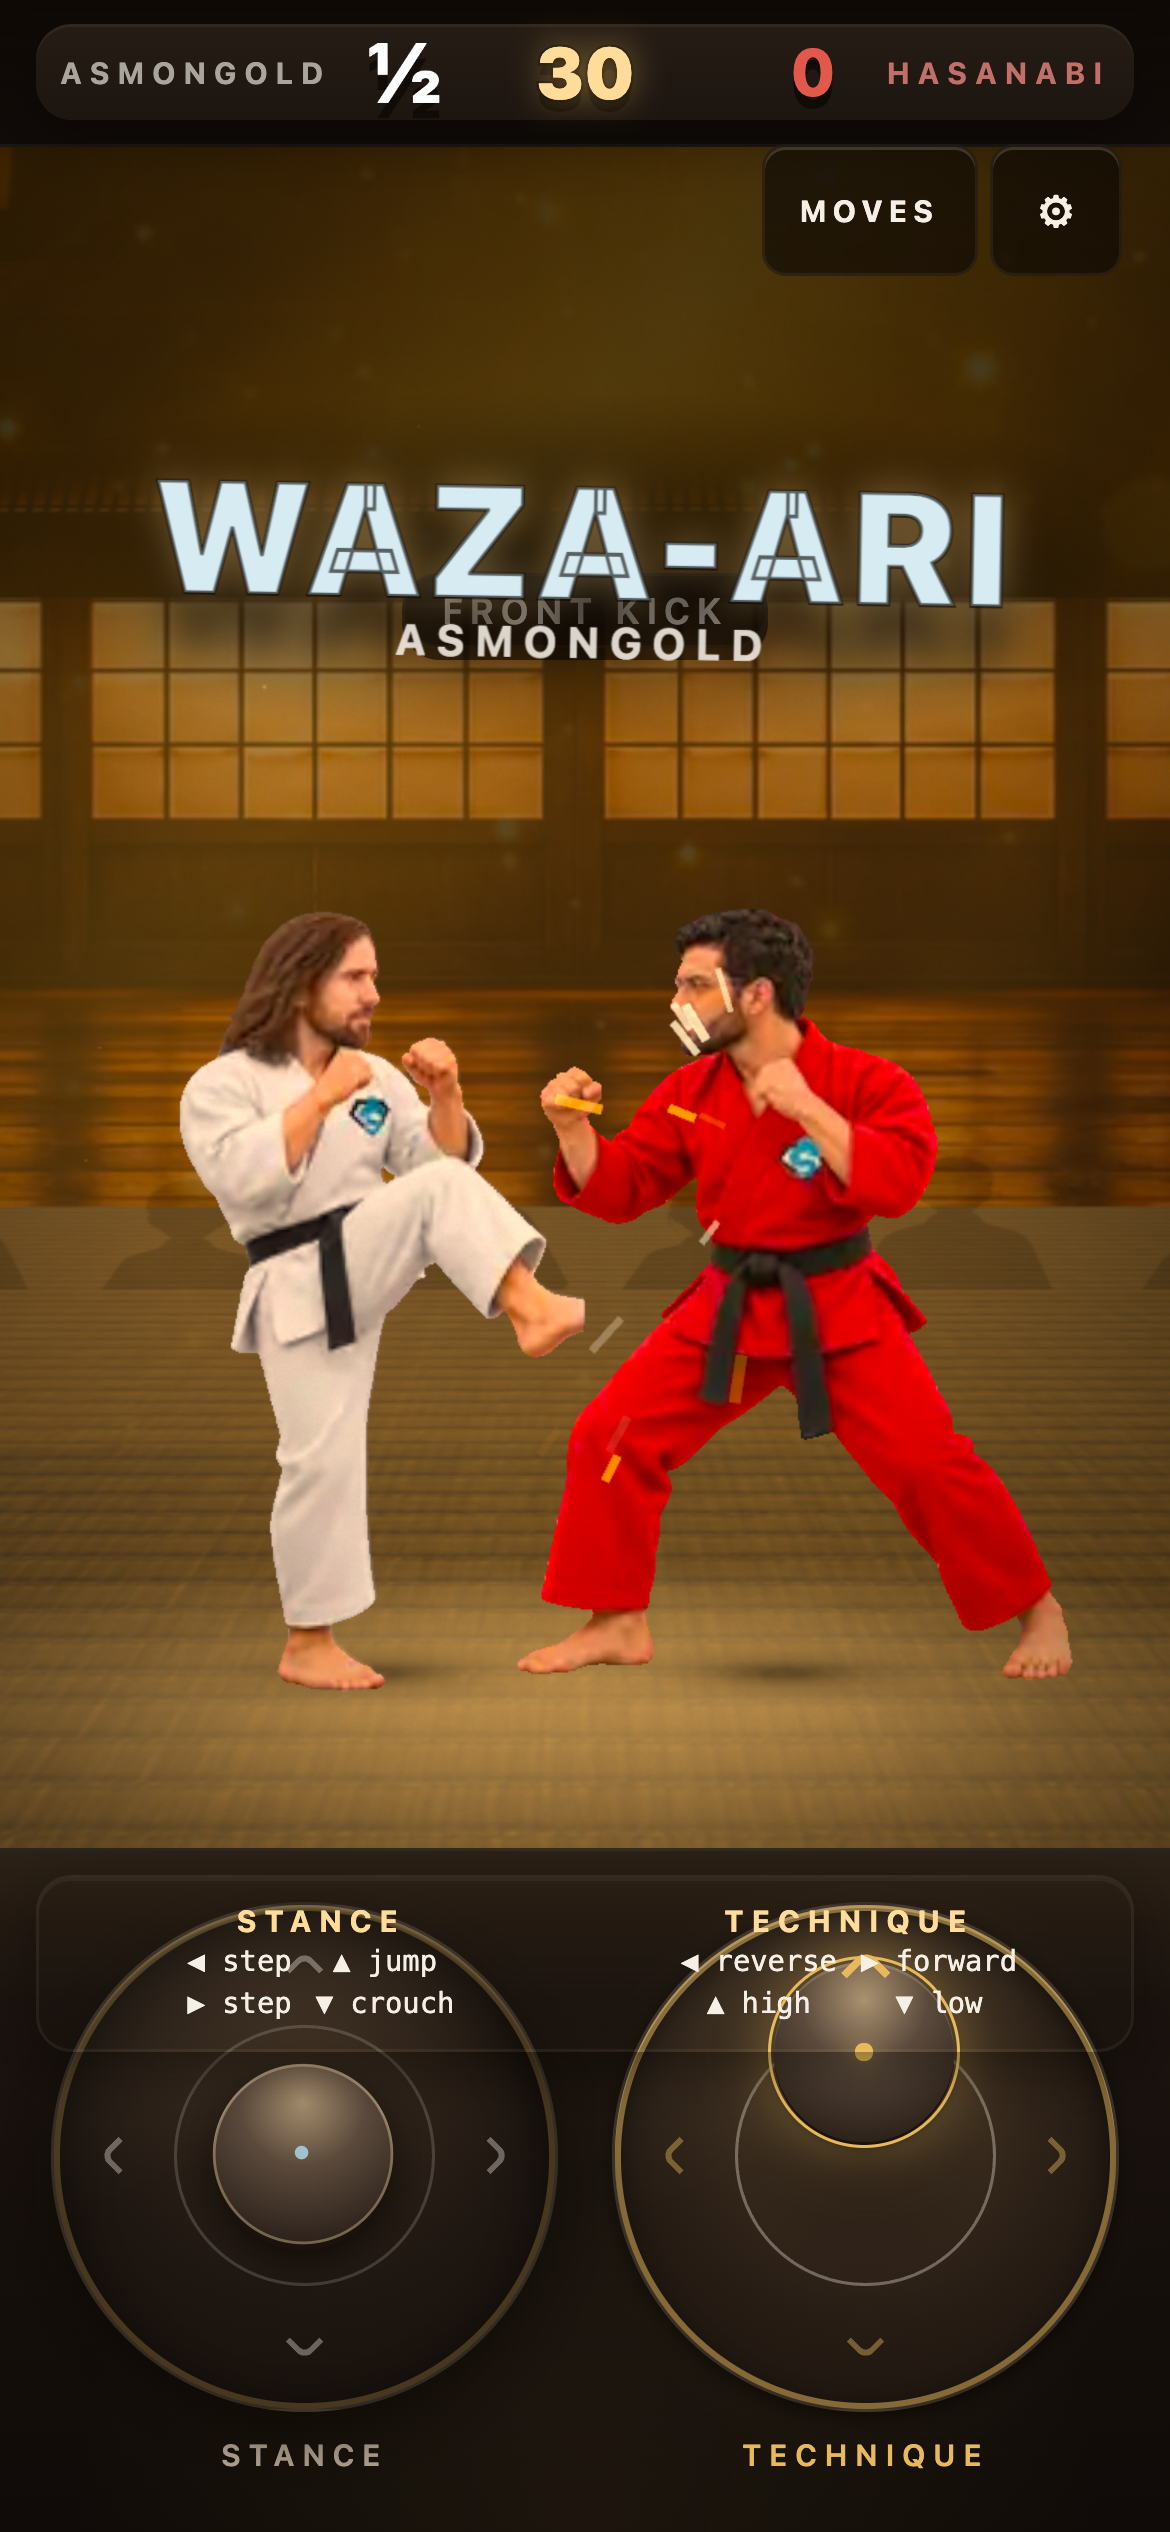
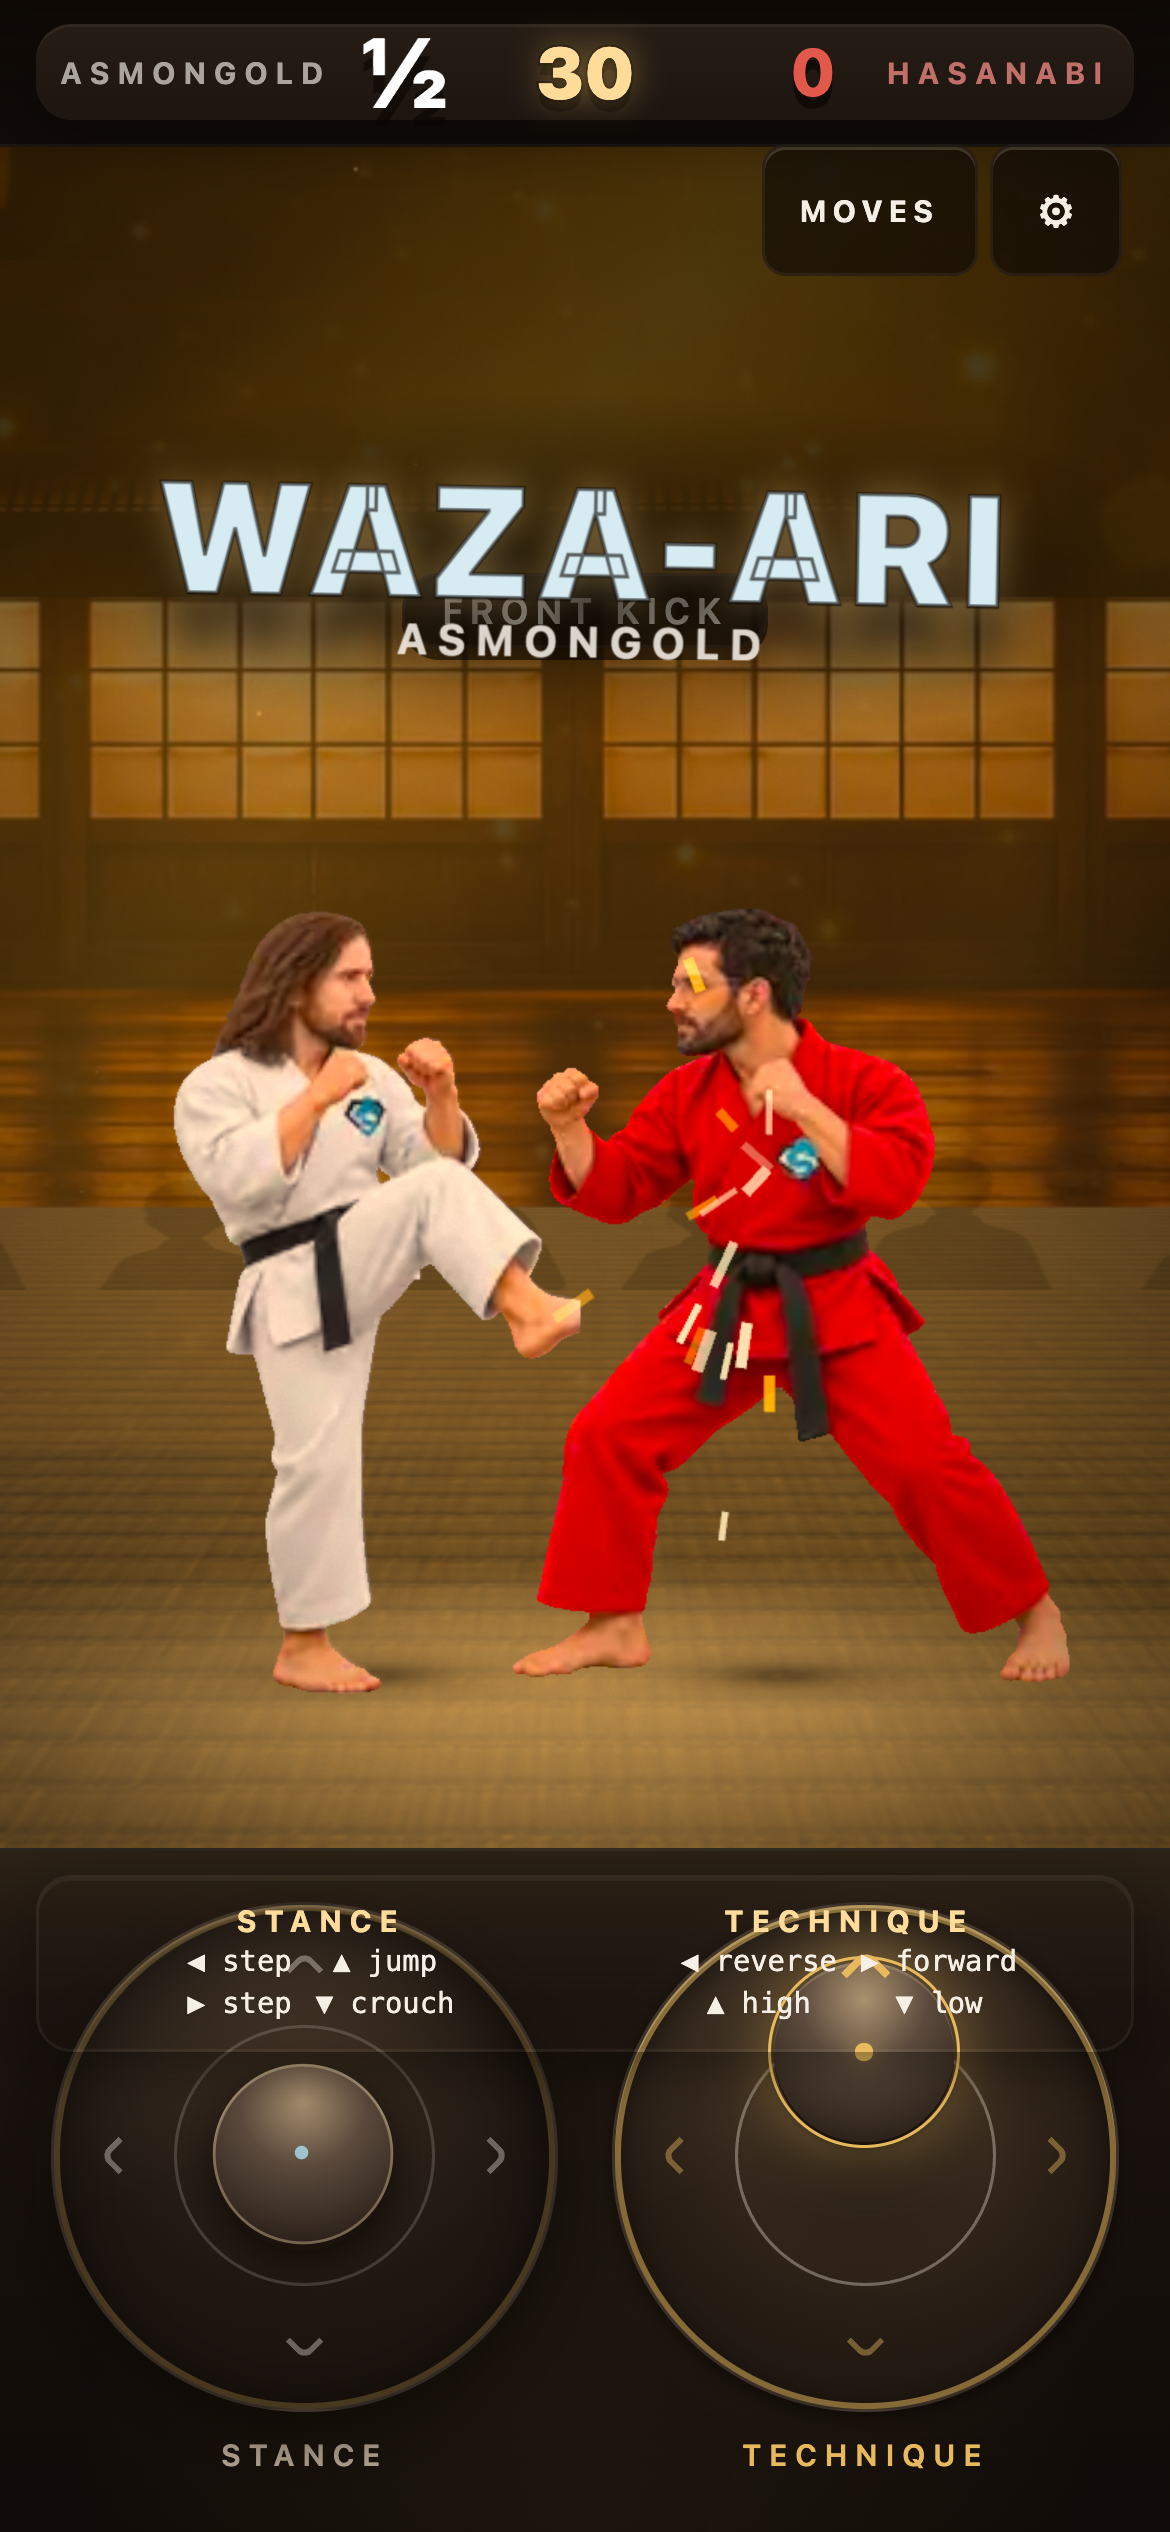
fix(harness): the review set only ever sampled the first-run player
Three rounds running — gemma-4-26b, qwen3.8-27b and now qwen3.8-35b — have
independently reported the coach strip as a "permanent control overlay" that
should be removed, "crowds the lower third", and "never clears between moves".

It clears. On the first bout, once both sticks have been used, the strip is
gone and the rings sit clean.

The strip is not the bug. The sampling is. Every capture in this harness runs
in a fresh browser context with an empty localStorage, so the first-run state
was present in every single frame the loop ever put in front of a model. Not
one of them had ever been shown the other state, and they were each reasoning
correctly from a one-sided sample and arriving at a false conclusion about the
product.

Adds `14-phone-returning`, which seeds the seen flag and captures the same
bout with the strip retired. The review set now contains both states.

**A review harness is a sampling of the product, and a sample that never
varies a dimension cannot see anything about that dimension.** Three
independent reviewers converged on the same wrong answer because the answer
was underdetermined, not because they agreed.

Also lifts the moves-sheet scoring column off --text-faint to --text-muted.
qwen3.8-35b called the contrast on the point values too low, and they are
right about which column they meant: "mid · Half point" is the reason a
point-karate game has no health bars, and it should not read as quieter than
the move name it qualifies.

diff --git a/apps/game/src/styles.css b/apps/game/src/styles.css
@@ -1726,7 +1726,11 @@ body.high-contrast .setting-row input[type="checkbox"]:checked {
   white-space: nowrap;
   font-size: var(--text-2xs);
   letter-spacing: var(--track-tight);
-  color: var(--text-faint);
+  /* Was --text-faint, a deliberate ghost for a column of secondary metadata.
+     But this column carries the scoring rule — "mid · Half point" is the whole
+     reason a point-karate game has no health bars, and reading it should not
+     take more contrast than the move name it qualifies. */
+  color: var(--text-muted);
 }
 
 /* ==========================================================================
